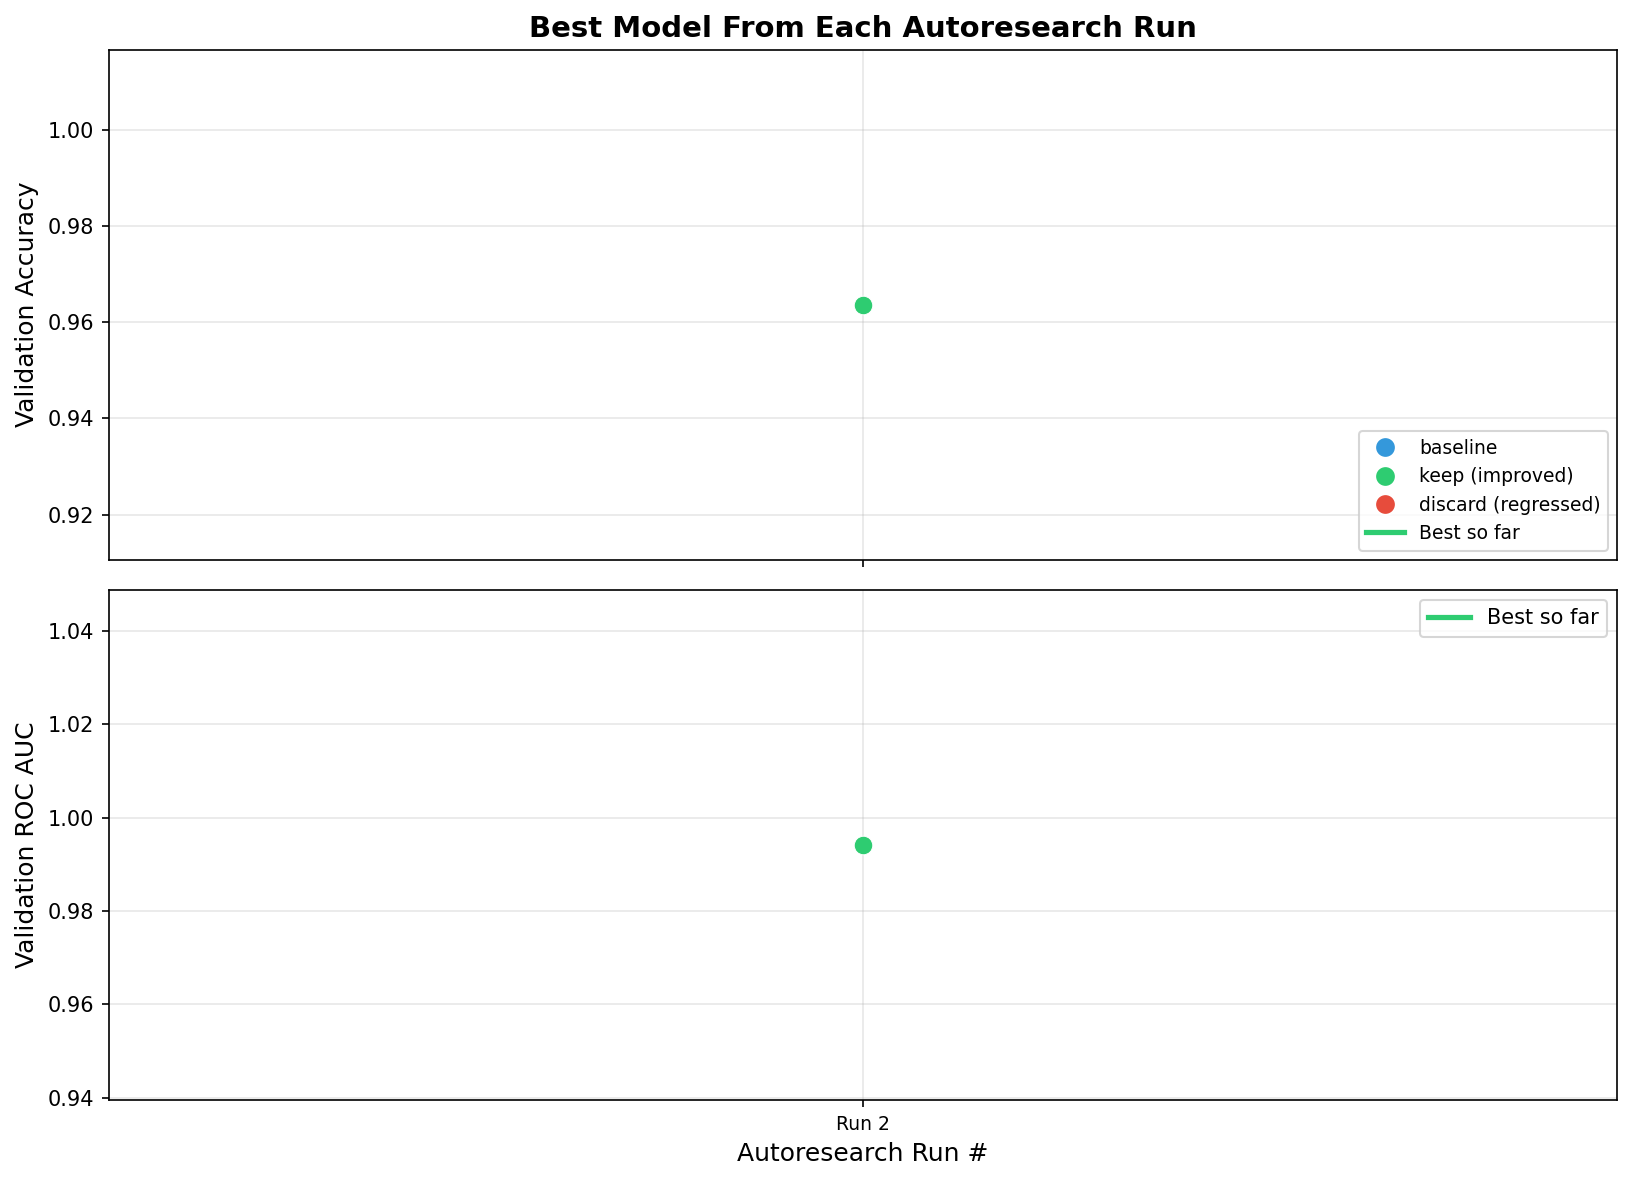
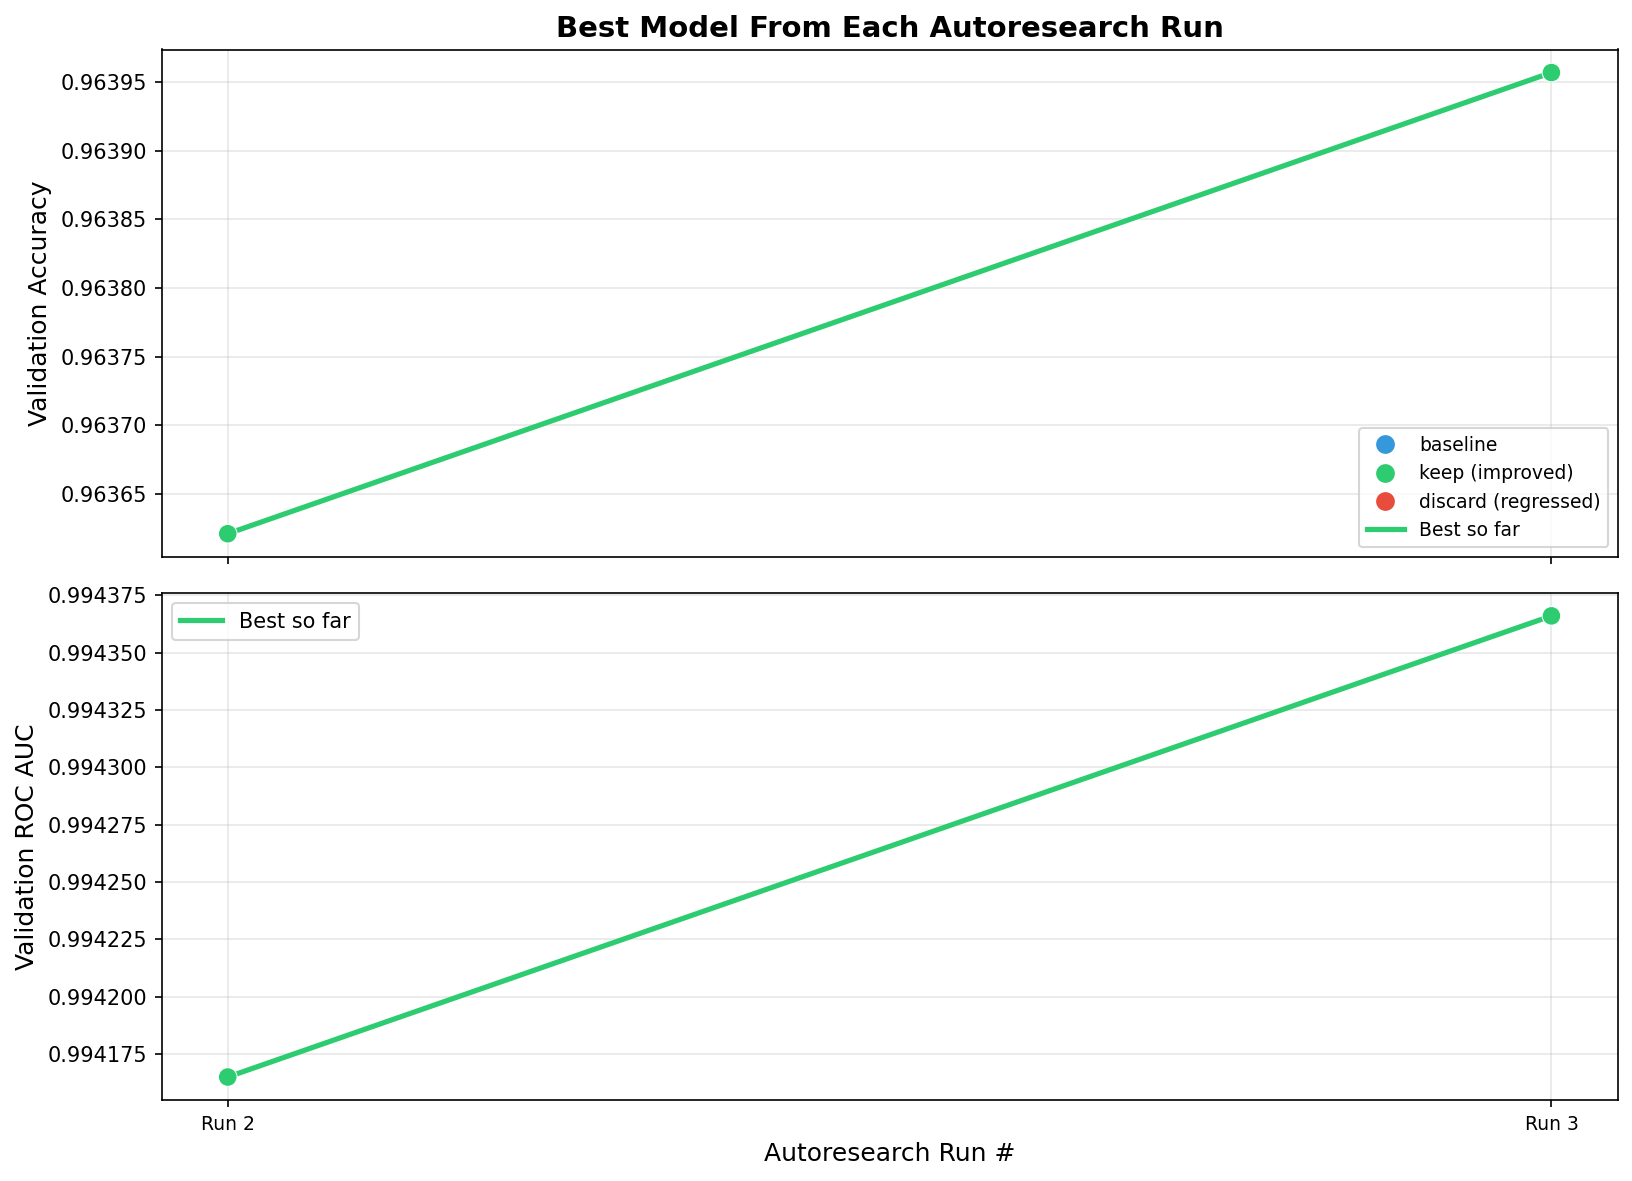
autoresearch run 3

diff --git a/prepare.py b/prepare.py
@@ -24,6 +24,21 @@ TEST_PATH = DATA_DIR / "test.csv"
 DROP_COLUMNS = ["Unnamed: 0", "id"]
 
 
+def get_next_autoresearch_run():
+    """Return the next autoresearch run number based on results.tsv."""
+    if not os.path.exists(RESULTS_FILE):
+        return 1
+
+    max_run = 0
+    with open(RESULTS_FILE, encoding="utf-8") as handle:
+        reader = csv.DictReader(handle, delimiter="\t")
+        for row in reader:
+            run_value = (row.get("autoresearch_run") or "").strip()
+            if run_value.isdigit():
+                max_run = max(max_run, int(run_value))
+    return max_run + 1 if max_run else 1
+
+
 def _encode_target(target_series):
     """Map satisfaction labels to binary values."""
     normalized = target_series.astype(str).str.strip().str.lower()
@@ -82,17 +97,32 @@ def evaluate(model, X_val, y_val):
     return accuracy, roc_auc
 
 
-def log_result(experiment_id, val_accuracy, val_roc_auc, status, description):
+def log_result(
+    experiment_id,
+    val_accuracy,
+    val_roc_auc,
+    status,
+    description,
+    autoresearch_run="",
+):
     """Append one row to results.tsv."""
     file_exists = os.path.exists(RESULTS_FILE)
     with open(RESULTS_FILE, "a", newline="", encoding="utf-8") as handle:
         writer = csv.writer(handle, delimiter="\t")
         if not file_exists:
             writer.writerow(
-                ["experiment", "val_accuracy", "val_roc_auc", "status", "description"]
+                [
+                    "experiment",
+                    "autoresearch_run",
+                    "val_accuracy",
+                    "val_roc_auc",
+                    "status",
+                    "description",
+                ]
             )
         writer.writerow([
             experiment_id,
+            autoresearch_run,
             f"{val_accuracy:.6f}",
             f"{val_roc_auc:.6f}",
             status,
@@ -101,7 +131,7 @@ def log_result(experiment_id, val_accuracy, val_roc_auc, status, description):
 
 
 def plot_results(save_path="performance.png"):
-    """Plot validation accuracy and ROC AUC over experiments from results.tsv."""
+    """Plot the best validation accuracy and ROC AUC from each autoresearch run."""
     import matplotlib
 
     matplotlib.use("Agg")
@@ -111,15 +141,44 @@ def plot_results(save_path="performance.png"):
         print("No results.tsv found. Run some experiments first.")
         return
 
-    experiments, accuracies, aucs, statuses, descriptions = [], [], [], [], []
+    rows = []
     with open(RESULTS_FILE, encoding="utf-8") as handle:
         reader = csv.DictReader(handle, delimiter="\t")
         for row in reader:
-            experiments.append(row["experiment"])
-            accuracies.append(float(row["val_accuracy"]))
-            aucs.append(float(row["val_roc_auc"]))
-            statuses.append(row["status"])
-            descriptions.append(row["description"])
+            run_value = (row.get("autoresearch_run") or "").strip()
+            if not run_value:
+                continue
+            rows.append({
+                "experiment": row["experiment"],
+                "autoresearch_run": run_value,
+                "val_accuracy": float(row["val_accuracy"]),
+                "val_roc_auc": float(row["val_roc_auc"]),
+                "status": row["status"],
+                "description": row["description"],
+            })
+
+    if not rows:
+        print("No autoresearch_run-tagged rows found in results.tsv.")
+        return
+
+    frame = pd.DataFrame(rows)
+    frame["_run_sort"] = pd.to_numeric(frame["autoresearch_run"], errors="coerce")
+    frame = frame.sort_values(
+        by=["_run_sort", "val_roc_auc", "val_accuracy"],
+        ascending=[True, False, False],
+        na_position="last",
+    )
+    best_per_run = frame.drop_duplicates(subset=["autoresearch_run"], keep="first")
+    best_per_run = best_per_run.sort_values(
+        by=["_run_sort", "autoresearch_run"],
+        na_position="last",
+    )
+
+    run_labels = best_per_run["autoresearch_run"].tolist()
+    accuracies = best_per_run["val_accuracy"].tolist()
+    aucs = best_per_run["val_roc_auc"].tolist()
+    statuses = best_per_run["status"].tolist()
+    positions = list(range(len(run_labels)))
 
     color_map = {"keep": "#2ecc71", "discard": "#e74c3c", "baseline": "#3498db"}
     colors = [color_map.get(status, "#95a5a6") for status in statuses]
@@ -127,7 +186,7 @@ def plot_results(save_path="performance.png"):
     fig, (ax1, ax2) = plt.subplots(2, 1, figsize=(11, 8), sharex=True)
 
     ax1.scatter(
-        range(len(accuracies)),
+        positions,
         accuracies,
         c=colors,
         s=80,
@@ -135,7 +194,7 @@ def plot_results(save_path="performance.png"):
         edgecolors="white",
         linewidth=0.5,
     )
-    ax1.plot(range(len(accuracies)), accuracies, "k--", alpha=0.2, zorder=2)
+    ax1.plot(positions, accuracies, "k--", alpha=0.2, zorder=2)
 
     best_accuracy = []
     running_best_accuracy = -float("inf")
@@ -143,7 +202,7 @@ def plot_results(save_path="performance.png"):
         running_best_accuracy = max(running_best_accuracy, score)
         best_accuracy.append(running_best_accuracy)
     ax1.plot(
-        range(len(accuracies)),
+        positions,
         best_accuracy,
         color="#2ecc71",
         linewidth=2.5,
@@ -151,14 +210,14 @@ def plot_results(save_path="performance.png"):
     )
     ax1.set_ylabel("Validation Accuracy", fontsize=12)
     ax1.set_title(
-        "AutoResearch Demo: Airline Customer Satisfaction Classification",
+        "Best Model From Each Autoresearch Run",
         fontsize=14,
         fontweight="bold",
     )
     ax1.grid(True, alpha=0.3)
 
     ax2.scatter(
-        range(len(aucs)),
+        positions,
         aucs,
         c=colors,
         s=80,
@@ -166,7 +225,7 @@ def plot_results(save_path="performance.png"):
         edgecolors="white",
         linewidth=0.5,
     )
-    ax2.plot(range(len(aucs)), aucs, "k--", alpha=0.2, zorder=2)
+    ax2.plot(positions, aucs, "k--", alpha=0.2, zorder=2)
 
     best_auc = []
     running_best_auc = -float("inf")
@@ -174,20 +233,20 @@ def plot_results(save_path="performance.png"):
         running_best_auc = max(running_best_auc, score)
         best_auc.append(running_best_auc)
     ax2.plot(
-        range(len(aucs)),
+        positions,
         best_auc,
         color="#2ecc71",
         linewidth=2.5,
         label="Best so far",
     )
-    ax2.set_xlabel("Experiment #", fontsize=12)
+    ax2.set_xlabel("Autoresearch Run #", fontsize=12)
     ax2.set_ylabel("Validation ROC AUC", fontsize=12)
     ax2.legend(fontsize=10)
     ax2.grid(True, alpha=0.3)
 
-    short_labels = [desc[:22] + ".." if len(desc) > 24 else desc for desc in descriptions]
-    ax2.set_xticks(range(len(experiments)))
-    ax2.set_xticklabels(short_labels, rotation=45, ha="right", fontsize=8)
+    run_tick_labels = [f"Run {run}" for run in run_labels]
+    ax2.set_xticks(positions)
+    ax2.set_xticklabels(run_tick_labels, rotation=0, ha="center", fontsize=9)
 
     from matplotlib.lines import Line2D
 

diff --git a/model.py b/model.py
@@ -53,6 +53,7 @@ def build_model():
     return Pipeline([
         ("preprocess", preprocess),
         ("model", RandomForestClassifier(
+            criterion="log_loss",
             n_estimators=500,
             random_state=42,
             n_jobs=1,

diff --git a/README.md b/README.md
@@ -26,14 +26,18 @@ Track the performance of manual baseline models against the automated research r
 | Model Type | Creator (User / Autoresearch) | Autoresearch Run # | Runtime (s) | ROC AUC | Accuracy | Preserved/Deleted | Notes |
 | :--- | :--- | :--- | :--- | :--- | :--- | :--- | :--- |
 | Logistic Regression | User | | 3.2949 seconds |0.9197 | NA* | Preserved | Baseline with minimal preprocessing. Max iterations set to 1000. |
-| Logistic Regression | Autoresearch |1| 0.24 seconds |0.9295 | 0.8748 | Preserved | 8-iteration run exp-001 baseline from `demo.py`. |
-| Logistic Regression Balanced | Autoresearch |1| 0.24 seconds |0.9294 | 0.8691 | Deleted | 8-iteration run exp-002 discarded. `class_weight='balanced'` slightly reduced ROC AUC. |
-| Logistic Regression C=0.5 | Autoresearch |1|0.23 seconds |0.9295 | 0.8749 | Deleted | 8-iteration run exp-003 discarded. Essentially tied baseline on ROC AUC. |
-| Random Forest | Autoresearch |1|15.27 seconds |0.9920 | 0.9539 | Preserved | 8-iteration run exp-004 kept. `n_estimators=300`, `max_depth=12`, `min_samples_leaf=2`, `n_jobs=1`. |
-| Random Forest Full Depth | Autoresearch |1|30.38 seconds |0.9942 | 0.9636 | Preserved | 8-iteration run exp-005 kept and became best overall. `n_estimators=500`, full depth, single-threaded for sandbox safety. |
-| Extra Trees | Autoresearch |1|15.57 seconds |0.9924 | 0.9563 | Deleted | 8-iteration run exp-006 discarded. Strong result but below best random forest. |
-| Gradient Boosting | Autoresearch |1|27.41 seconds |0.9909 | 0.9523 | Deleted | 8-iteration run exp-007 discarded. Lower ROC AUC than the current best. |
-| Extra Trees Full Depth | Autoresearch |1|27.25 seconds |0.9934 | 0.9632 | Deleted | 8-iteration run exp-008 discarded. Close, but still below exp-005. |
+| Logistic Regression | Autoresearch |2| 0.24 seconds |0.9295 | 0.8748 | Preserved | 8-iteration run exp-001 baseline from `demo.py`. |
+| Logistic Regression Balanced | Autoresearch |2| 0.24 seconds |0.9294 | 0.8691 | Deleted | 8-iteration run exp-002 discarded. `class_weight='balanced'` slightly reduced ROC AUC. |
+| Logistic Regression C=0.5 | Autoresearch |2|0.23 seconds |0.9295 | 0.8749 | Deleted | 8-iteration run exp-003 discarded. Essentially tied baseline on ROC AUC. |
+| Random Forest | Autoresearch |2|15.27 seconds |0.9920 | 0.9539 | Preserved | 8-iteration run exp-004 kept. `n_estimators=300`, `max_depth=12`, `min_samples_leaf=2`, `n_jobs=1`. |
+| Random Forest Full Depth | Autoresearch |2|30.38 seconds |0.9942 | 0.9636 | Preserved | 8-iteration run exp-005 kept and became best overall. `n_estimators=500`, full depth, single-threaded for sandbox safety. |
+| Extra Trees | Autoresearch |2|15.57 seconds |0.9924 | 0.9563 | Deleted | 8-iteration run exp-006 discarded. Strong result but below best random forest. |
+| Gradient Boosting | Autoresearch |2|27.41 seconds |0.9909 | 0.9523 | Deleted | 8-iteration run exp-007 discarded. Lower ROC AUC than the current best. |
+| Extra Trees Full Depth | Autoresearch |2|27.25 seconds |0.9934 | 0.9632 | Deleted | 8-iteration run exp-008 discarded. Close, but still below exp-005. |
+| Random Forest Full Depth | Autoresearch |3|28.58 seconds |0.9942 | 0.9636 | Preserved | 4-iteration run baseline using the previously preserved best `RandomForestClassifier(n_estimators=500, n_jobs=1)`. |
+| Random Forest Full Depth + Leaf 2 | Autoresearch |3|26.45 seconds |0.9940 | 0.9634 | Deleted | Iteration 2 discarded. Adding `min_samples_leaf=2` slightly reduced ROC AUC relative to the run baseline. |
+| Random Forest Balanced Subsample | Autoresearch |3|32.29 seconds |0.9941 | 0.9632 | Deleted | Iteration 3 discarded. `class_weight='balanced_subsample'` did not beat the baseline ROC AUC. |
+| Random Forest Log Loss | Autoresearch |3|28.63 seconds |0.9944 | 0.9640 | Preserved | Iteration 4 kept and became the new best model. Switched the forest criterion to `log_loss`. |
 
 \* Accuracy values for the first three logged rows were not preserved because this column was added after those earlier runs had already been documented.
 
